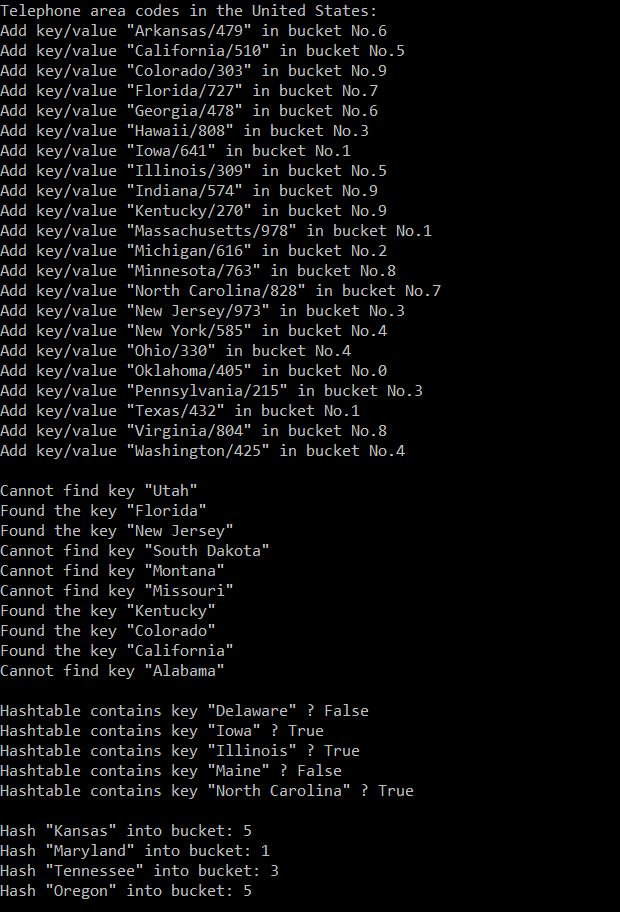
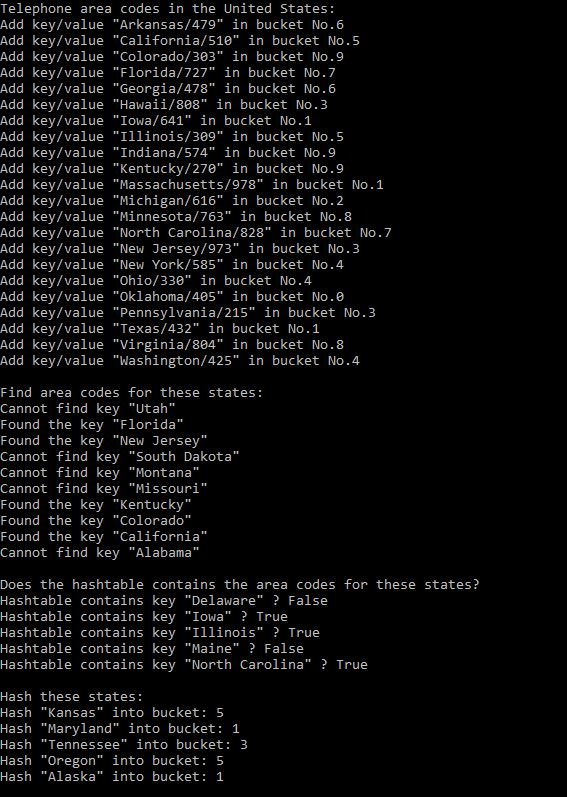
complete program

Changed region(s): [[0.0, 0.0, 0.7196, 0.9937], [0.7496, 0.7227, 0.8395, 0.7528]]

diff --git a/Data-Structures/HashTables/HashTables/Program.cs b/Data-Structures/HashTables/HashTables/Program.cs
@@ -2,57 +2,41 @@
 
 namespace HashTables
 {
-    class Program
+    public class Program
     {
-        static void Main(string[] args)
+        public static void Main(string[] args)
         {
+            HashTable hashtable = new HashTable(10);
             Console.WriteLine("Telephone area codes in the United States:");
-            Hashtable hashtable = new Hashtable(10);
-            hashtable.Add("Arkansas", "479");
-            hashtable.Add("California", "510");
-            hashtable.Add("Colorado", "303");
-            hashtable.Add("Florida", "727");
-            hashtable.Add("Georgia", "478");
-            hashtable.Add("Hawaii", "808");
-            hashtable.Add("Iowa", "641");
-            hashtable.Add("Illinois", "309");
-            hashtable.Add("Indiana", "574");
-            hashtable.Add("Kentucky", "270");
-            hashtable.Add("Massachusetts", "978");
-            hashtable.Add("Michigan", "616");
-            hashtable.Add("Minnesota", "763");
-            hashtable.Add("North Carolina", "828");
-            hashtable.Add("New Jersey", "973");
-            hashtable.Add("New York", "585");
-            hashtable.Add("Ohio", "330");
-            hashtable.Add("Oklahoma", "405");
-            hashtable.Add("Pennsylvania", "215");
-            hashtable.Add("Texas", "432");
-            hashtable.Add("Virginia", "804");
-            hashtable.Add("Washington", "425");
-            Console.WriteLine();
-            hashtable.Get("Utah");
-            hashtable.Get("Florida");
-            hashtable.Get("New Jersey");
-            hashtable.Get("South Dakota");
-            hashtable.Get("Montana");
-            hashtable.Get("Missouri");
-            hashtable.Get("Kentucky");
-            hashtable.Get("Colorado");
-            hashtable.Get("California");
-            hashtable.Get("Alabama");
-            Console.WriteLine();
-            Console.WriteLine($"Hashtable contains key \"Delaware\" ? {hashtable.Contains("Delaware")}");
-            Console.WriteLine($"Hashtable contains key \"Iowa\" ? {hashtable.Contains("Iowa")}");
-            Console.WriteLine($"Hashtable contains key \"Illinois\" ? {hashtable.Contains("Illinois")}");
-            Console.WriteLine($"Hashtable contains key \"Maine\" ? {hashtable.Contains("Maine")}");
-            Console.WriteLine($"Hashtable contains key \"North Carolina\" ? {hashtable.Contains("North Carolina")}");
-            Console.WriteLine();
-            Console.WriteLine($"Hash \"Kansas\" into bucket: {hashtable.Hash("Kansas")}");
-            Console.WriteLine($"Hash \"Maryland\" into bucket: {hashtable.Hash("Maryland")}");
-            Console.WriteLine($"Hash \"Tennessee\" into bucket: {hashtable.Hash("Tennessee")}");
-            Console.WriteLine($"Hash \"Oregon\" into bucket: {hashtable.Hash("Oregon")}");
-            Console.WriteLine($"Hash \"Alaska\" into bucket: {hashtable.Hash("Alaska")}");
+
+            string[] states = { "Arkansas", "California", "Colorado", "Florida", "Georgia", "Hawaii", "Iowa", "Illinois", "Indiana", "Kentucky", "Massachusetts", "Michigan", "Minnesota", "North Carolina", "New Jersey", "New York", "Ohio", "Oklahoma", "Pennsylvania", "Texas", "Virginia", "Washington" };
+            string[] areaCode = { "479", "510", "303", "727", "478", "808", "641", "309", "574", "270", "978", "616", "763", "828", "973", "585", "330", "405", "215", "432", "804", "425" };
+
+            for (int i = 0; i < states.Length; i++)
+            {
+                hashtable.Add(states[i], areaCode[i]);
+            }
+
+            Console.WriteLine("\nFind area codes for these states:");
+            string[] getStates = { "Utah", "Florida", "New Jersey", "South Dakota", "Montana", "Missouri", "Kentucky", "Colorado", "California", "Alabama" };
+            for (int i = 0; i < getStates.Length; i++)
+            {
+                hashtable.Get(getStates[i]);
+            }
+
+            Console.WriteLine("\nDoes the hashtable contains the area codes for these states?");
+            string[] containsStates = { "Delaware", "Iowa", "Illinois", "Maine", "North Carolina" };
+            for (int i = 0; i < containsStates.Length; i++)
+            {
+                Console.WriteLine($"Hashtable contains key \"{containsStates[i]}\" ? {hashtable.Contains(containsStates[i])}");
+            }
+
+            Console.WriteLine("\nHash these states:");
+            string[] hashStates = { "Kansas", "Maryland", "Tennessee", "Oregon", "Alaska" };
+            for (int i = 0; i < hashStates.Length; i++)
+            {
+                Console.WriteLine($"Hash \"{hashStates[i]}\" into bucket: {hashtable.Hash(hashStates[i])}");
+            }
         }
     }
 }

diff --git a/Data-Structures/HashTables/HashtableTests/UnitTest1.cs b/Data-Structures/HashTables/HashtableTests/UnitTest1.cs
@@ -1,0 +1,124 @@
+using HashTables;
+using System;
+using System.Collections;
+using Xunit;
+using static HashTables.Program;
+
+namespace HashtableTests
+{
+    public class UnitTest1
+    {
+        public class TestAdd
+        {
+            HashTable hashtable = new HashTable(5);
+
+            [Fact]
+            public void CanAddOneKeyValue()
+            {
+                hashtable.Add("A1", "pen");
+                Assert.True(hashtable.Contains("A1"));
+            }
+
+            [Fact]
+            public void CanAddMultipleKeyValues()
+            {
+                string[] productID = { "A1", "B4", "D6", "F7", "G2", "H3", "J5" };
+                string[] product = { "pen", "eraser", "pencil", "ruler", "marker", "note pad", "post-it" };
+
+                HashTable hashtable = new HashTable(productID.Length);
+                for (int i = 0; i < productID.Length; i++)
+                {
+                    hashtable.Add(productID[i], product[i]);
+                    Assert.True(hashtable.Contains(productID[i]));
+                }
+            }
+
+            [Fact]
+            public void CanHandleCollision()
+            {
+                // Only has 1 bucket so both keys will be saved to the same bucket to test if a collision can be handled.
+                Hashtable hashtable2 = new Hashtable(1);
+
+                hashtable2.Add("A1", "pen");
+                hashtable2.Add("1A", "pencil");
+                Assert.True(hashtable2.Contains("1A"));
+                Assert.True(hashtable2.Contains("A1"));
+            }
+        }
+
+        public class TestContains
+        {
+            HashTable testTable = new HashTable(5);
+
+            [Fact]
+            public void ContainsMultiple()
+            {
+                testTable.Add("April", "4");
+                testTable.Add("July", "7");
+                testTable.Add("November", "11");
+                Assert.True(testTable.Contains("April"));
+                Assert.True(testTable.Contains("July"));
+                Assert.True(testTable.Contains("November"));
+            }
+
+            [Fact]
+            public void ContainsOtherKeys()
+            {
+                testTable.Add("April", "4");
+                testTable.Add("July", "7");
+                Assert.True(testTable.Contains("April"));
+                Assert.True(testTable.Contains("July"));
+                Assert.False(testTable.Contains("Decemver"));
+            }
+
+            [Fact]
+            public void ContainsNoKeys()
+            {
+                Assert.False(testTable.Contains("December"));
+            }
+        }
+
+        public class TestGet
+        {
+            HashTable testTable = new HashTable(10);
+
+            [Fact]
+            public void GetOneValue()
+            {
+                testTable.Add("Monday", "1");
+                Assert.Equal("1", testTable.Get("Monday"));
+            }
+
+            [Fact]
+            public void GetMultipleValues()
+            {
+                testTable.Add("12345", "First");
+                testTable.Add("54321", "Second");
+                Assert.Equal("First", testTable.Get("12345"));
+                Assert.Equal("Second", testTable.Get("54321"));
+            }
+        }
+
+        public class TestHash
+        {
+            HashTable testTable = new HashTable(5);
+
+            [Fact]
+            public void HashKeysToTheSameBuckets()
+            {
+                Assert.Equal(3, testTable.Hash("TAP"));
+                Assert.Equal(3, testTable.Hash("PAT"));
+            }
+
+            [Fact]
+            public void HashKeysToDifferntBucket()
+            {
+                Assert.Equal(0, testTable.Hash("South Korea"));
+                Assert.Equal(1, testTable.Hash("Chile"));
+                Assert.Equal(2, testTable.Hash("Italy"));
+                Assert.Equal(3, testTable.Hash("Norway"));
+                Assert.Equal(4, testTable.Hash("German"));
+            }
+        }
+    }
+}

diff --git a/Data-Structures/HashTables/HashTables/Hashtable.cs b/Data-Structures/HashTables/HashTables/Hashtable.cs
@@ -4,7 +4,7 @@ using System.Text;
 
 namespace HashTables
 {
-    class Hashtable
+    public class HashTable
     {
         /// <summary>
         /// Set how many buckets are there in the hashtable
@@ -20,7 +20,7 @@ namespace HashTables
         /// Hashtable constructor to set up the quantity for buckets and set up the same amount of node arrays to match the bucket quantity
         /// </summary>
         /// <param name="buckets"></param>
-        public Hashtable(int buckets)
+        public HashTable(int buckets)
         {
             Buckets = buckets;
             HashNode = new Node[buckets];
@@ -36,7 +36,6 @@ namespace HashTables
         public void Add(string key, string value)
         {
             int index = Hash(key);
-
             if (Contains(key))
             {
                 Console.WriteLine($"Key \"{key}\" already exists in bucket No.{index}\n");

diff --git a/Data-Structures/HashTables/HashTables/Node.cs b/Data-Structures/HashTables/HashTables/Node.cs
@@ -4,7 +4,7 @@ using System.Text;
 
 namespace HashTables
 {
-    class Node
+    public class Node
     {
         /// <summary>
         /// Key of the key/value pair

diff --git a/Data-Structures/HashTables/README.md b/Data-Structures/HashTables/README.md
@@ -71,4 +71,6 @@ Result
 
 1.8: Add Get() method. - 2019 Nov 29
 
-1.9: 
+1.9: Add an unit test. - 2019 Nov 30
+
+1.10: Pass all tests. The program is completed. - 2019 Dec 01
